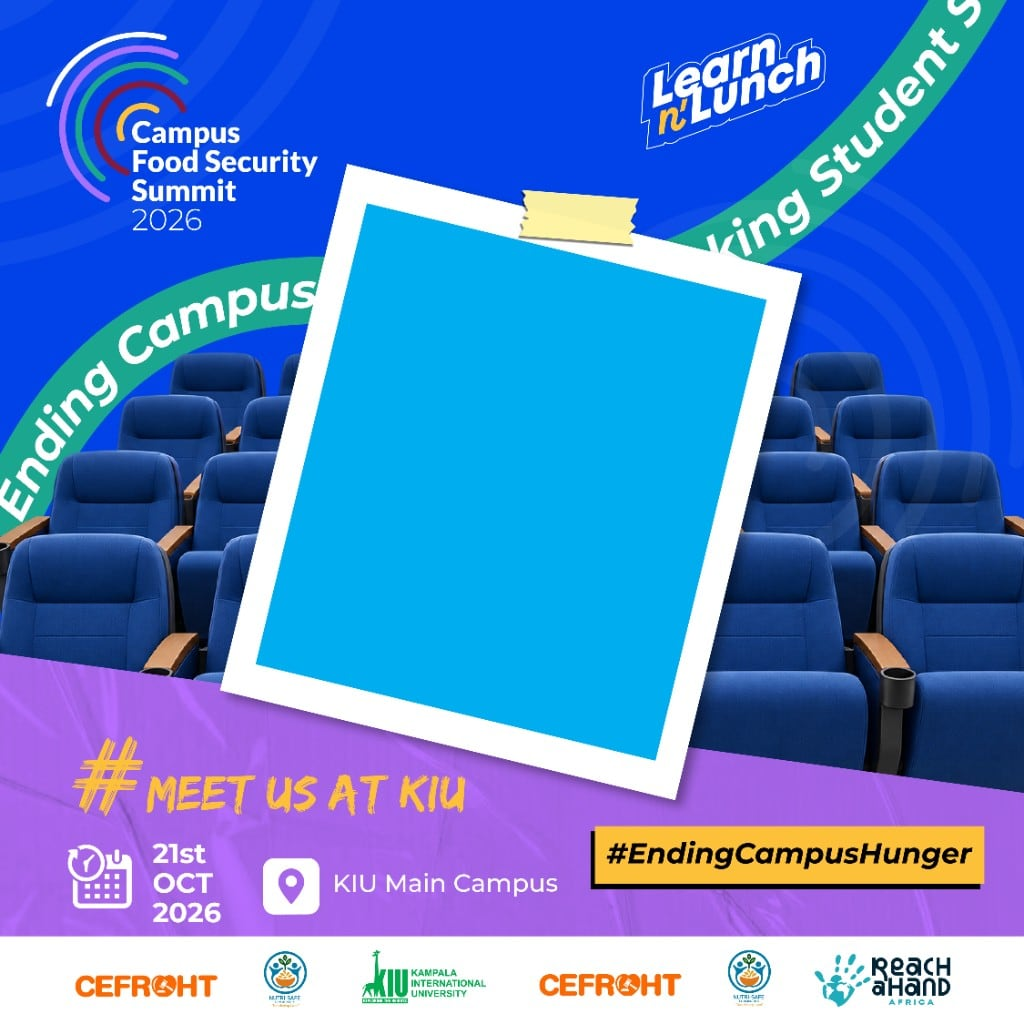
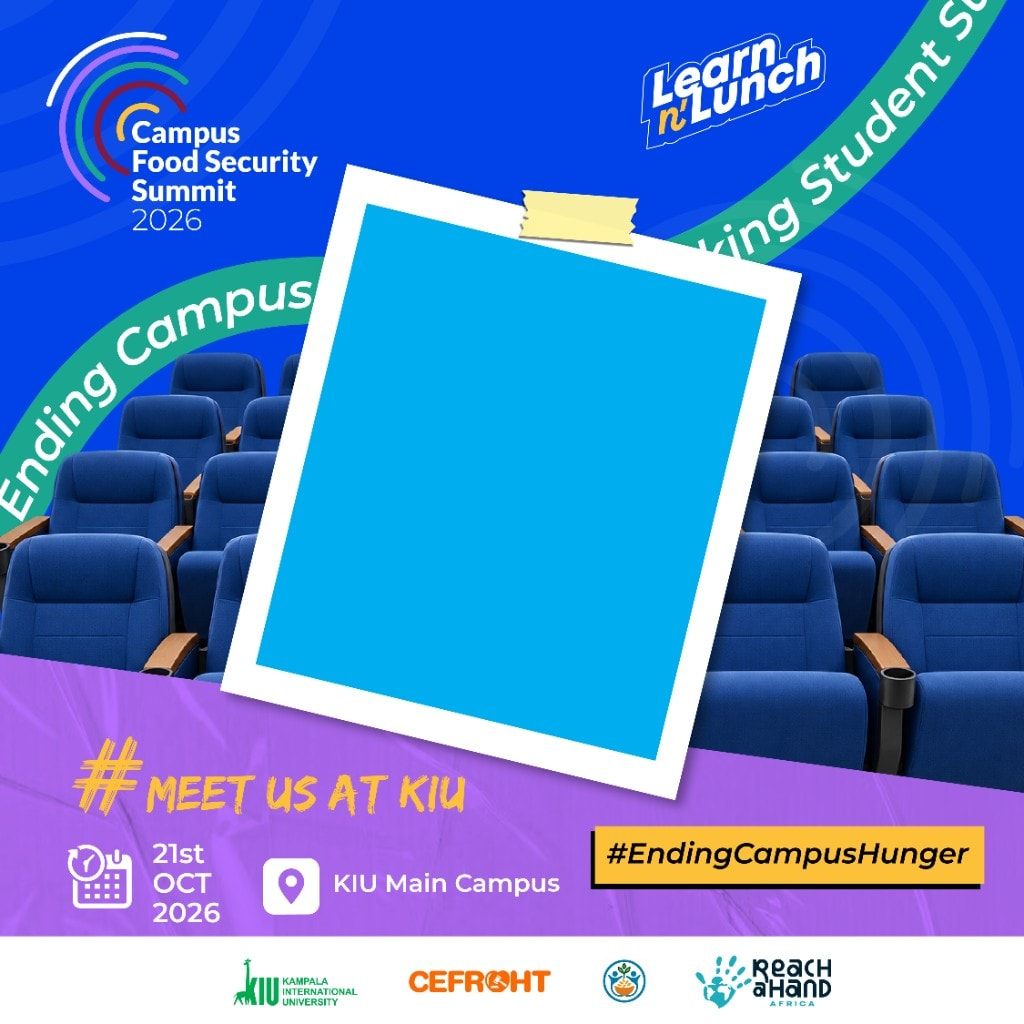
poster

diff --git a/ill-be-there/index.html b/ill-be-there/index.html
@@ -69,7 +69,7 @@
     </nav>
 <main id="main-content">
 
-<section class="lnl-poster" id="summit-poster" data-overlay="../summit-poster/template-overlay.png?v=4">
+<section class="lnl-poster" id="summit-poster" data-overlay="../summit-poster/template-overlay.png?v=5">
   <div class="lnl-poster__screen">
     <div class="lnl-poster__intro">
       <p class="lnl-poster__eyebrow">Campus Food Security Summit 2026</p>
@@ -80,7 +80,7 @@
     <div class="lnl-poster__studio">
       <div class="lnl-poster__stage">
         <canvas class="lnl-poster__canvas" width="1024" height="1024" aria-label="Summit poster preview"></canvas>
-        <img class="lnl-poster__fallback" src="../summit-poster/template.jpg?v=3" alt="Campus Food Security Summit 2026 I'll Be There poster" width="1024" height="1024">
+        <img class="lnl-poster__fallback" src="../summit-poster/template.jpg?v=4" alt="Campus Food Security Summit 2026 I'll Be There poster" width="1024" height="1024">
         <p class="lnl-poster__empty" data-empty>Upload a photo to place it in the frame. Drag to move. Pinch to zoom.</p>
       </div>
     </div>

diff --git a/summit-poster/index.html b/summit-poster/index.html
@@ -69,7 +69,7 @@
     </nav>
 <main id="main-content">
 
-<section class="lnl-poster" id="summit-poster" data-overlay="../summit-poster/template-overlay.png?v=4">
+<section class="lnl-poster" id="summit-poster" data-overlay="../summit-poster/template-overlay.png?v=5">
   <div class="lnl-poster__screen">
     <div class="lnl-poster__intro">
       <p class="lnl-poster__eyebrow">Campus Food Security Summit 2026</p>
@@ -80,7 +80,7 @@
     <div class="lnl-poster__studio">
       <div class="lnl-poster__stage">
         <canvas class="lnl-poster__canvas" width="1024" height="1024" aria-label="Summit poster preview"></canvas>
-        <img class="lnl-poster__fallback" src="../summit-poster/template.jpg?v=3" alt="Campus Food Security Summit 2026 I'll Be There poster" width="1024" height="1024">
+        <img class="lnl-poster__fallback" src="../summit-poster/template.jpg?v=4" alt="Campus Food Security Summit 2026 I'll Be There poster" width="1024" height="1024">
         <p class="lnl-poster__empty" data-empty>Upload a photo to place it in the frame. Drag to move. Pinch to zoom.</p>
       </div>
     </div>

diff --git a/js/summit-register.js b/js/summit-register.js
@@ -297,12 +297,22 @@
 
   async function postToSheet(payload) {
     // One request only. Apps Script writes on receive; a CORS retry would duplicate the row.
-    await fetch(submitEndpoint, {
+    // Apps Script cold starts can take 30s+, and a no-cors response is opaque anyway, so only
+    // wait long enough to catch an immediate network failure. keepalive lets the write finish
+    // even if the student closes the tab.
+    const request = fetch(submitEndpoint, {
       method: "POST",
       mode: "no-cors",
+      keepalive: true,
       headers: { "Content-Type": "text/plain;charset=utf-8" },
       body: JSON.stringify(payload)
     });
+    await Promise.race([
+      request,
+      new Promise(function (resolve) {
+        window.setTimeout(resolve, 1500);
+      })
+    ]);
   }
 
   async function postToEmailFallback(payload) {

diff --git a/scripts/lib/pages/summit-poster.js b/scripts/lib/pages/summit-poster.js
@@ -8,8 +8,8 @@ const {
 
 function renderSummitPoster({ site, page }) {
   const depth = 1;
-  const overlaySrc = resolveAsset(depth, "summit-poster/template-overlay.png") + "?v=4";
-  const previewSrc = resolveAsset(depth, "summit-poster/template.jpg") + "?v=3";
+  const overlaySrc = resolveAsset(depth, "summit-poster/template-overlay.png") + "?v=5";
+  const previewSrc = resolveAsset(depth, "summit-poster/template.jpg") + "?v=4";
   const shareCaption = String(page.shareCaption || "").trim();
 
   const body = `
